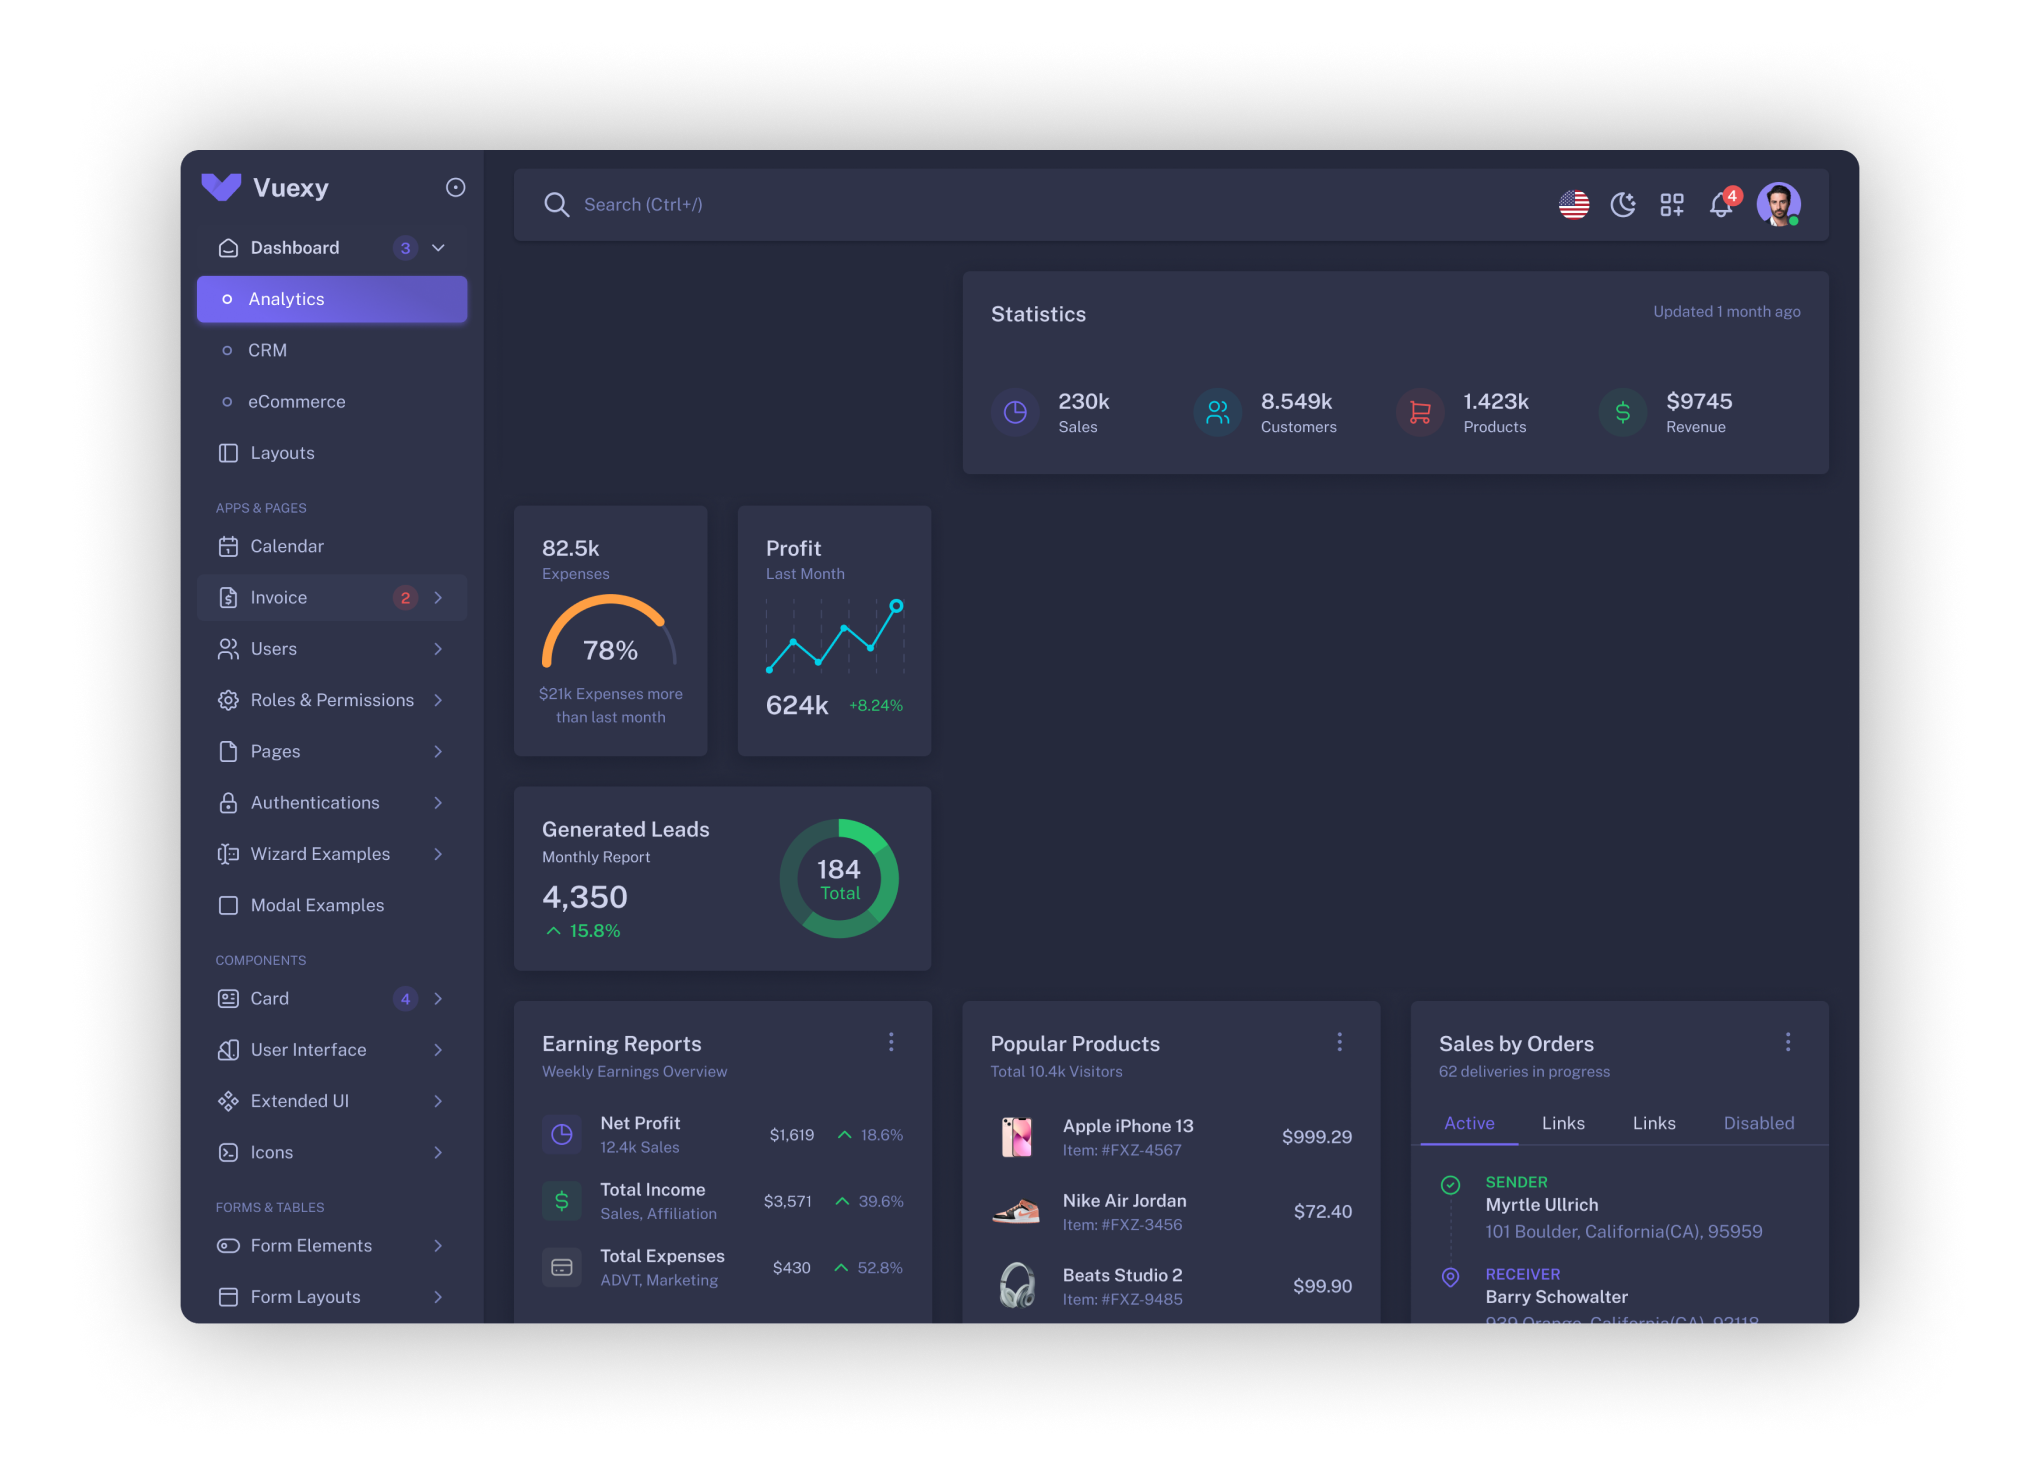
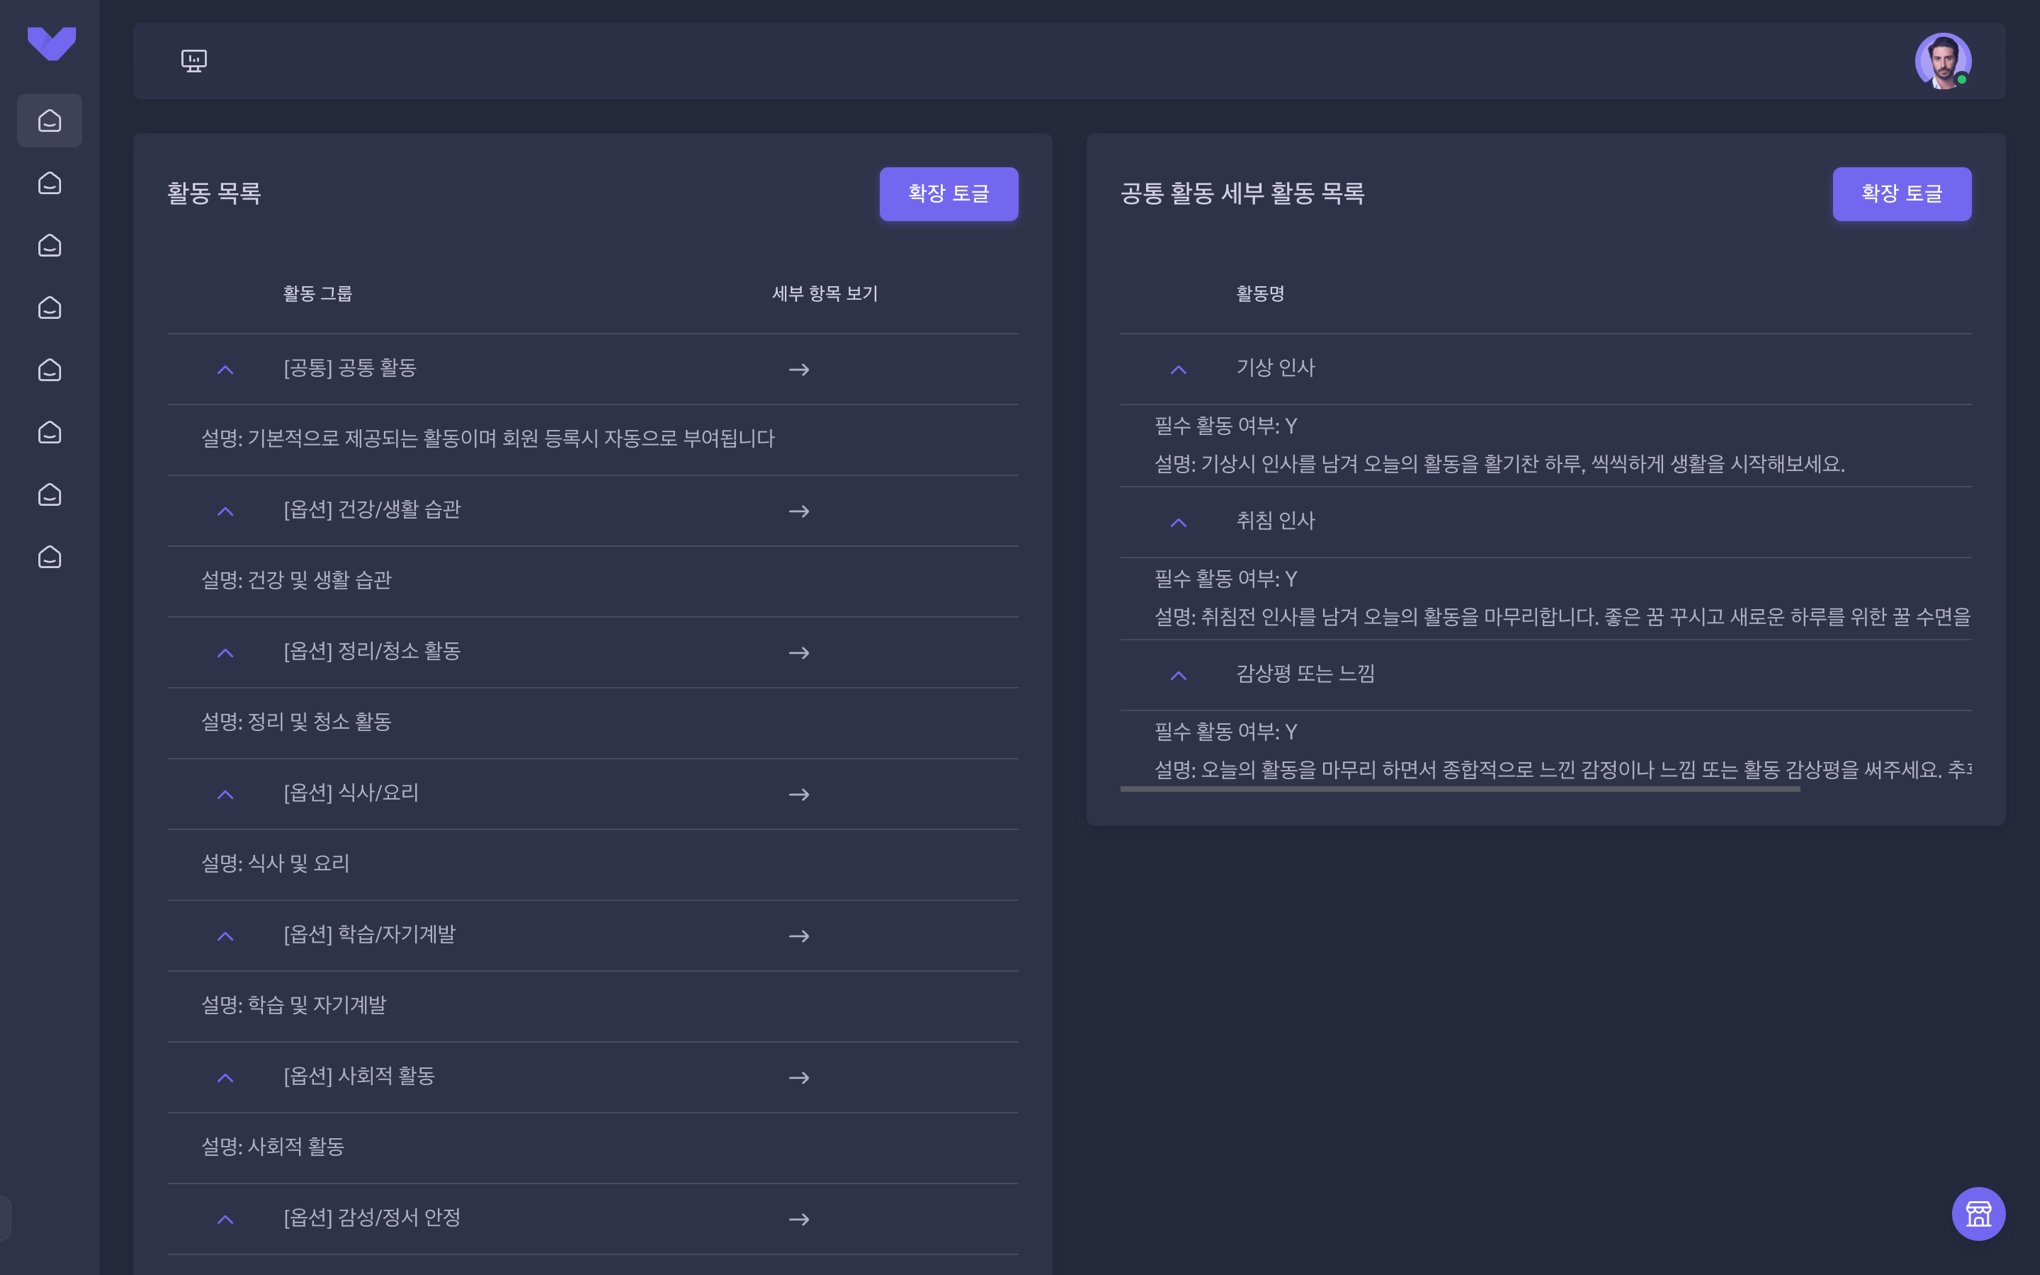
히어로 목업을 실제 서비스 화면으로 교체
Vuexy 데모의 대시보드 스크린샷을 쓰고 있었다. 실제 서비스 화면이 아닌 것을
제품처럼 보여주는 셈이라 공개할 수 없었다.

- hero-dashboard-{light,dark}.png → 실제 활동 목록 화면(라이트/다크)
- hero-elements 오버레이 제거
  "Congratulations John · $48.9k · Revenue Report $25,825" 같은 가짜 매출
  카드였다. 이 서비스와 무관한 조작된 수치라 걷어냈다.
- 이미지 alt 를 실제 화면 설명으로 교체

diff --git a/src/views/front-pages/landing-page/hero-section.vue b/src/views/front-pages/landing-page/hero-section.vue
@@ -8,12 +8,15 @@ import { siteConfig } from '@variables/site'
 import heroDashboardImgDark from '@images/front-pages/landing-page/hero-dashboard-dark.png'
 import heroDashboardImgLight from '@images/front-pages/landing-page/hero-dashboard-light.png'
 
-import heroElementsImgDark from '@images/front-pages/landing-page/hero-elements-dark.png'
-import heroElementsImgLight from '@images/front-pages/landing-page/hero-elements-light.png'
-
 const theme = useTheme()
 
-const heroElementsImg = useGenerateImageVariant(heroElementsImgLight, heroElementsImgDark)
+/*
+ * 히어로 목업은 실제 서비스 화면(활동 목록)이다.
+ *
+ * ⚠ Vuexy 원본에는 그 위에 hero-elements 오버레이가 얹혀 있었는데,
+ *    "Congratulations John · $48.9k · Revenue Report $25,825" 같은 가짜 매출 카드였다.
+ *    이 서비스와 무관한 조작된 수치라 걷어냈다. 다시 넣지 말 것.
+ */
 const heroDashboardImg = useGenerateImageVariant(heroDashboardImgLight, heroDashboardImgDark)
 
 const { x, y } = useMouse({ touch: false })
@@ -87,11 +90,6 @@ const translateMouse = computed(() => {
       <div class="position-relative">
         <div class="blank-section" />
         <div class="hero-animation-img position-absolute">
-          <!--
-            ⚠ 이 이미지는 아직 Vuexy 데모의 대시보드 스크린샷이다.
-            실제 서비스 화면이 아니므로 공개 전에 TTC 플랫폼 캡처로 반드시 교체할 것.
-            교체 대상: @images/front-pages/landing-page/hero-dashboard-{light,dark}.png
-          -->
           <a
             :href="siteConfig.platformUrl"
             target="_blank"
@@ -104,14 +102,8 @@ const translateMouse = computed(() => {
             >
               <img
                 :src="heroDashboardImg"
-                alt="Hero Dashboard"
+                alt="종합 훈련 센터 활동 목록 화면"
                 class="animation-img"
-              >
-              <img
-                :src="heroElementsImg"
-                alt="hero elements"
-                class="hero-elements-img animation-img position-absolute"
-                style="transform: translateZ(1rem);"
               >
             </div>
           </a>
@@ -303,12 +295,6 @@ section {
   img {
     inline-size: 100%;
   }
-}
-
-.hero-elements-img {
-  position: absolute;
-  inset-block: 0;
-  inset-inline-start: 0;
 }
 
 .feature-cards {
